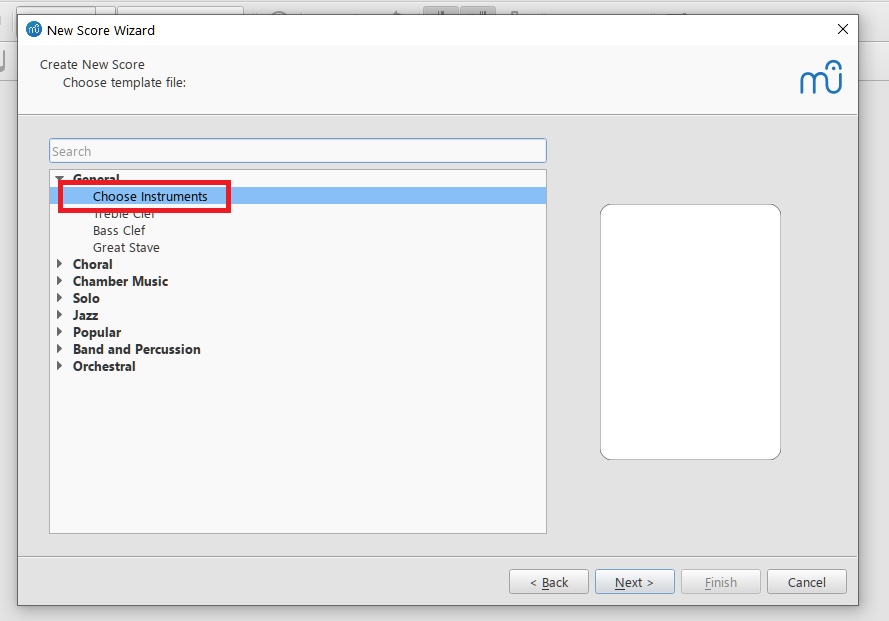
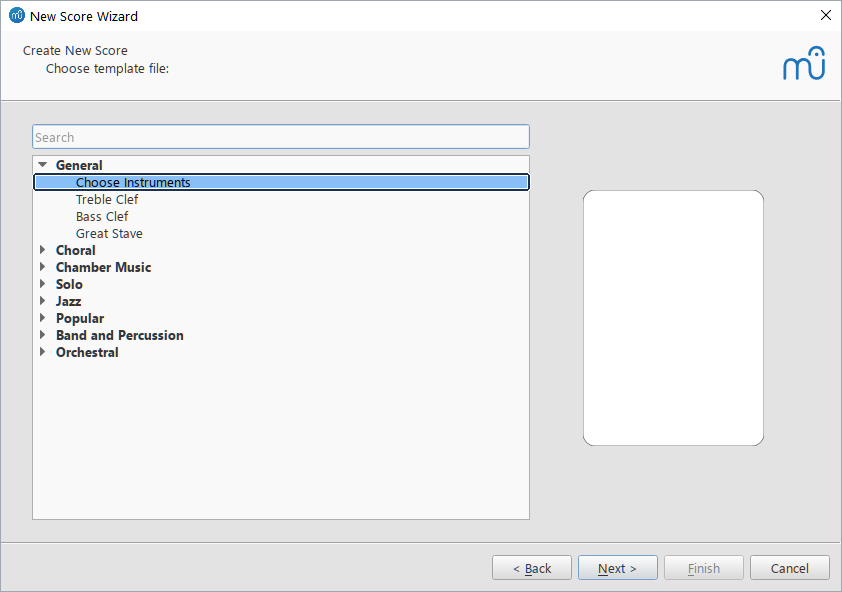
docs: Retake MuseScore screenshots and proofread the topics
- Replace all 14 MuseScore images: clean crops from new 3.6.2 captures,
  consistent highlight outlines and borders, no baked-in red boxes or
  tooltips; notation images rendered from the .mscz files
- Fill the first four measures of Love_Song.mscz (piano, the Bass Line
  part, drums) and use it as the introduction's sample score
- Proofread: "cursor" instead of the ambiguous "bar", search-box step
  for instruments outside the Common list, clearer introduction headings
  and a Get MuseScore section, sentence-case topic names
- Category READMEs: show Audience and Purpose as a list; consecutive
  lines merged into one paragraph

Changed region(s): [[0.0, 0.0, 1.0, 1.0], [0.6485, 0.3041, 0.9264, 0.7601]]

diff --git a/src/user-assistance/musescore/introduction.html b/src/user-assistance/musescore/introduction.html
@@ -34,8 +34,8 @@ are different, so some steps in these topics do not match MuseScore
 write for solo instruments or for ensembles of any style, from classical
 to rock, with the symbols a score needs: clefs, key and time signatures,
 accidentals, dynamics, articulations, and phrasing marks. Scores can be
-laid out for common contemporary page sizes.</p>
-<h2 id="overview">Overview</h2>
+laid out for any common page size.</p>
+<h2 id="why-notation-software">Why notation software</h2>
 <p>Engraving music used to take skilled craftspeople and expensive
 printing. With notation software, musicians can write and print scores
 on their own computers.</p>
@@ -44,11 +44,21 @@ keyboard. MuseScore saves scores as <code>.mscz</code> files: compressed
 files that contain the score in MuseScore’s own XML format, similar to
 MusicXML. You can play a score back on the computer, export it as MIDI,
 MusicXML, PDF, or audio, and print it.</p>
-<p>Here is a short example of a finished score:</p>
+<p>Here are the first four measures of <em>Love Song</em>, the sample
+score used in these topics:</p>
 <figure>
-<img src="pictures/score-sample.png" alt="A sample score" />
-<figcaption aria-hidden="true">A sample score</figcaption>
+<img src="pictures/score-sample.png"
+alt="First four measures of the Love Song sample score for piano, electric bass, and drums" />
+<figcaption aria-hidden="true">First four measures of the Love Song
+sample score for piano, electric bass, and drums</figcaption>
 </figure>
+<h2 id="get-musescore">Get MuseScore</h2>
+<p>Installers for Windows, macOS, and Linux are available from the
+official MuseScore site, <a
+href="https://musescore.org">musescore.org</a>. These topics and their
+screenshots use MuseScore 3.6.2, which is listed with the older releases
+on the same site.</p>
+<h2 id="topics">Topics</h2>
 <p>The following topics show how to create a score and enter a part:</p>
 <ol type="1">
 <li><a href="creating-a-score-file.html">Creating a score file</a></li>
@@ -56,11 +66,5 @@ MusicXML, PDF, or audio, and print it.</p>
 <li><a href="frequently-used-features.html">Frequently used
 features</a></li>
 </ol>
-<hr />
-<p>Installers for Windows, macOS, and Linux are available from the
-official MuseScore site, <a
-href="https://musescore.org">musescore.org</a>. These topics and their
-screenshots use MuseScore 3.6.2, which is listed with the older releases
-on the same site.</p>
 </body>
 </html>

diff --git a/src/user-assistance/musescore/creating-a-music-part.html b/src/user-assistance/musescore/creating-a-music-part.html
@@ -37,9 +37,10 @@ staff. You can download both sample scores:</p>
 <ul>
 <li><a href="Bass_Line.mscz">Bass_Line.mscz</a>: the single-staff score
 used in this topic, with the first measures already entered</li>
-<li><a href="Love_Song.mscz">Love_Song.mscz</a>: the blank
-three-instrument score created in <a
-href="creating-a-score-file.html">Creating a score file</a></li>
+<li><a href="Love_Song.mscz">Love_Song.mscz</a>: the three-instrument
+score from <a href="creating-a-score-file.html">Creating a score
+file</a>, with the first four measures filled in for piano, electric
+bass, and drums</li>
 </ul>
 <p>The steps are the same for the Electric Bass staff in Love Song.</p>
 <blockquote>
@@ -58,13 +59,13 @@ button at the left end of the note input toolbar (the button with the
 <em>N</em> symbol).</p>
 <figure>
 <img src="pictures/note-entry-button.png"
-alt="Note input button and its list of input modes" />
-<figcaption aria-hidden="true">Note input button and its list of input
-modes</figcaption>
+alt="Note input button and the arrow that opens the input modes" />
+<figcaption aria-hidden="true">Note input button and the arrow that
+opens the input modes</figcaption>
 </figure>
 <p>The arrow next to the button opens a list of input modes. The default
 mode, <strong>Step-Time</strong>, is the one used in this topic.</p>
-<p>A blue vertical bar appears at the start of the measure. It marks
+<p>A blue cursor appears on the first beat of the measure. It marks
 where the next note will go:</p>
 <figure>
 <img src="pictures/activate-note-entry.png"
@@ -79,7 +80,7 @@ default.</p></li>
 <li><p>Type the letter name of the pitch, <kbd>A</kbd> to
 <kbd>G</kbd>.</p>
 <p>MuseScore enters that note, following the key signature, in the
-octave closest to the previous note. The bar moves on to the next
+octave closest to the previous note. The cursor moves on to the next
 beat.</p>
 <p>To correct the pitch of the note you just entered, press
 <kbd>Up</kbd> or <kbd>Down</kbd> to move it by a semitone, or

diff --git a/src/user-assistance/musescore/creating-a-score-file.html b/src/user-assistance/musescore/creating-a-score-file.html
@@ -29,9 +29,9 @@
 <p><em>Applies to MuseScore 3.6.2. The menus in MuseScore 4 are
 different.</em></p>
 <p>In this topic, you create a blank score for a small band (piano,
-electric bass, and drums) with the New Score wizard. The finished score
-is available as a sample: <a
-href="Love_Song.mscz">Love_Song.mscz</a>.</p>
+electric bass, and drums) with the New Score wizard. A copy of the
+score, with the first four measures filled in, is available as a sample:
+<a href="Love_Song.mscz">Love_Song.mscz</a>.</p>
 <p>Before you start, download and install MuseScore 3.6.2 (see <a
 href="introduction.html">MuseScore Music Notation App</a>).</p>
 <ol type="1">
@@ -63,8 +63,10 @@ alt="Piano selected in the Keyboards group" />
 group</figcaption>
 </figure>
 <p>Piano appears in the right pane.</p></li>
-<li><p>Add <strong>Electric Bass</strong> and <strong>Drumset</strong>
-the same way.</p>
+<li><p>Add <strong>Electric Bass</strong> and <strong>Drumset</strong>.
+They aren’t in the <strong>Common</strong> list, so type each name in
+the search box above the list (for example, <em>Drumset</em>), select
+it, and click <strong>Add to score</strong>.</p>
 <p>The right pane now lists all three instruments:</p>
 <figure>
 <img src="pictures/selected-instruments.png"

diff --git a/src/user-assistance/musescore/creating-a-music-part.md b/src/user-assistance/musescore/creating-a-music-part.md
@@ -9,7 +9,7 @@ In this topic, you enter an electric bass part with the mouse and computer keybo
 To keep the screenshots simple, this topic uses a separate single-staff score called "Bass Line". It contains only an Electric Bass staff. You can download both sample scores:
 
 - [Bass_Line.mscz](Bass_Line.mscz): the single-staff score used in this topic, with the first measures already entered
-- [Love_Song.mscz](Love_Song.mscz): the blank three-instrument score created in [Creating a score file](creating-a-score-file.md)
+- [Love_Song.mscz](Love_Song.mscz): the three-instrument score from [Creating a score file](creating-a-score-file.md), with the first four measures filled in for piano, electric bass, and drums
 
 The steps are the same for the Electric Bass staff in Love Song.
 
@@ -24,18 +24,18 @@ The steps are the same for the Electric Bass staff in Love Song.
 
 3. Press <kbd>N</kbd>, or click the **Note input** button at the left end of the note input toolbar (the button with the *N* symbol).
 
-   ![Note input button and its list of input modes](pictures/note-entry-button.png)
+   ![Note input button and the arrow that opens the input modes](pictures/note-entry-button.png)
 
    The arrow next to the button opens a list of input modes. The default mode, **Step-Time**, is the one used in this topic.
 
-   A blue vertical bar appears at the start of the measure. It marks where the next note will go:
+   A blue cursor appears on the first beat of the measure. It marks where the next note will go:
 
    ![Note input cursor on the first beat](pictures/activate-note-entry.png)
 
 4. Choose a duration by clicking it on the note input toolbar, or by pressing a number key: for example, <kbd>4</kbd> for an eighth note or <kbd>5</kbd> for a quarter note. The quarter note is selected by default.
 5. Type the letter name of the pitch, <kbd>A</kbd> to <kbd>G</kbd>.
 
-   MuseScore enters that note, following the key signature, in the octave closest to the previous note. The bar moves on to the next beat.
+   MuseScore enters that note, following the key signature, in the octave closest to the previous note. The cursor moves on to the next beat.
 
    To correct the pitch of the note you just entered, press <kbd>Up</kbd> or <kbd>Down</kbd> to move it by a semitone, or <kbd>Ctrl</kbd>+<kbd>Up</kbd> or <kbd>Ctrl</kbd>+<kbd>Down</kbd> to move it by an octave.
 

diff --git a/src/user-assistance/README.md b/src/user-assistance/README.md
@@ -1,18 +1,18 @@
 # User Assistance (Portfolio Samples)
 
-**Audience:** End users performing GUI-based tasks
-**Purpose:** Short, visual task guides that help users reach a specific goal.
+- **Audience:** End users performing GUI-based tasks
+- **Purpose:** Short, visual task guides that help users reach a specific goal.
 
 The samples document MuseScore 3.6.2, a real open-source music notation program, and all screenshots were taken in that version. MuseScore 4 has different menus and toolbars, so some steps do not apply to it.
 
 ## What's inside
 
 - **[Introduction](musescore/introduction.md)**: What MuseScore is, how it stores scores, and where to download it
-- **[Creating a Score File](musescore/creating-a-score-file.md)**: Using the New Score Wizard to create a blank score, with a title, three instruments (piano, electric bass, drums), a key signature, and the default time signature and tempo
-- **[Creating a Music Part](musescore/creating-a-music-part.md)**: Entering an electric bass line with the keyboard, mouse, or onscreen piano; ties and slurs; and playing the part back
-- **[Frequently Used Features](musescore/frequently-used-features.md)**: Menu locations, palettes, and keyboard shortcuts for common tasks
+- **[Creating a score file](musescore/creating-a-score-file.md)**: Using the New Score Wizard to create a blank score, with a title, three instruments (piano, electric bass, drums), a key signature, and the default time signature and tempo
+- **[Creating a music part](musescore/creating-a-music-part.md)**: Entering an electric bass line with the keyboard, mouse, or onscreen piano; ties and slurs; and playing the part back
+- **[Frequently used features](musescore/frequently-used-features.md)**: Menu locations, palettes, and keyboard shortcuts for common tasks
 
-Sample scores (open in MuseScore 3.6 or later): [Love_Song.mscz](musescore/Love_Song.mscz) (the blank three-instrument score) and [Bass_Line.mscz](musescore/Bass_Line.mscz) (the single-staff bass part used in the note-entry topic).
+Sample scores (open in MuseScore 3.6 or later): [Love_Song.mscz](musescore/Love_Song.mscz) (the three-instrument score, with the first four measures filled in) and [Bass_Line.mscz](musescore/Bass_Line.mscz) (the single-staff bass part used in the note-entry topic).
 
 ## Highlights
 

diff --git a/src/user-assistance/musescore/introduction.md b/src/user-assistance/musescore/introduction.md
@@ -4,24 +4,26 @@
 
 ## What is MuseScore?
 
-MuseScore is an open-source program for writing music scores. You can write for solo instruments or for ensembles of any style, from classical to rock, with the symbols a score needs: clefs, key and time signatures, accidentals, dynamics, articulations, and phrasing marks. Scores can be laid out for common contemporary page sizes.
+MuseScore is an open-source program for writing music scores. You can write for solo instruments or for ensembles of any style, from classical to rock, with the symbols a score needs: clefs, key and time signatures, accidentals, dynamics, articulations, and phrasing marks. Scores can be laid out for any common page size.
 
-## Overview
+## Why notation software
 
 Engraving music used to take skilled craftspeople and expensive printing. With notation software, musicians can write and print scores on their own computers.
 
 You can enter notes with the mouse, the computer keyboard, or a MIDI keyboard. MuseScore saves scores as `.mscz` files: compressed files that contain the score in MuseScore's own XML format, similar to MusicXML. You can play a score back on the computer, export it as MIDI, MusicXML, PDF, or audio, and print it.
 
-Here is a short example of a finished score:
+Here are the first four measures of *Love Song*, the sample score used in these topics:
 
-![A sample score](pictures/score-sample.png)
+![First four measures of the Love Song sample score for piano, electric bass, and drums](pictures/score-sample.png)
+
+## Get MuseScore
+
+Installers for Windows, macOS, and Linux are available from the official MuseScore site, [musescore.org](https://musescore.org). These topics and their screenshots use MuseScore 3.6.2, which is listed with the older releases on the same site.
+
+## Topics
 
 The following topics show how to create a score and enter a part:
 
 1. [Creating a score file](creating-a-score-file.md)
 2. [Creating a music part](creating-a-music-part.md)
 3. [Frequently used features](frequently-used-features.md)
-
----
-
-Installers for Windows, macOS, and Linux are available from the official MuseScore site, [musescore.org](https://musescore.org). These topics and their screenshots use MuseScore 3.6.2, which is listed with the older releases on the same site.

diff --git a/src/user-assistance/musescore/creating-a-score-file.md b/src/user-assistance/musescore/creating-a-score-file.md
@@ -2,7 +2,7 @@
 
 *Applies to MuseScore 3.6.2. The menus in MuseScore 4 are different.*
 
-In this topic, you create a blank score for a small band (piano, electric bass, and drums) with the New Score wizard. The finished score is available as a sample: [Love_Song.mscz](Love_Song.mscz).
+In this topic, you create a blank score for a small band (piano, electric bass, and drums) with the New Score wizard. A copy of the score, with the first four measures filled in, is available as a sample: [Love_Song.mscz](Love_Song.mscz).
 
 Before you start, download and install MuseScore 3.6.2 (see [MuseScore Music Notation App](introduction.md)).
 
@@ -26,7 +26,7 @@ Before you start, download and install MuseScore 3.6.2 (see [MuseScore Music Not
 
    Piano appears in the right pane.
 
-6. Add **Electric Bass** and **Drumset** the same way.
+6. Add **Electric Bass** and **Drumset**. They aren't in the **Common** list, so type each name in the search box above the list (for example, *Drumset*), select it, and click **Add to score**.
 
    The right pane now lists all three instruments:
 

diff --git a/src/user-manuals/README.md b/src/user-manuals/README.md
@@ -1,7 +1,7 @@
 # Appliance and Industrial Manuals (Portfolio Samples)
 
-**Audience:** Consumers, appliance installers, industrial operators, and maintenance personnel
-**Purpose:** Demonstrate non-software technical writing capabilities for physical products, emphasizing safety, usability, and compliance requirements across different complexity levels.
+- **Audience:** Consumers, appliance installers, industrial operators, and maintenance personnel
+- **Purpose:** Demonstrate non-software technical writing capabilities for physical products, emphasizing safety, usability, and compliance requirements across different complexity levels.
 
 ## What's Inside
 

diff --git a/src/release-notes/README.md b/src/release-notes/README.md
@@ -1,7 +1,7 @@
 # Release Notes (Portfolio Sample)
 
-**Audience:** Product managers, engineering teams, end users, and stakeholders
-**Purpose:** Communicate software changes, compatibility impacts, and upgrade procedures in a clear, organized format that serves both technical and non-technical audiences.
+- **Audience:** Product managers, engineering teams, end users, and stakeholders
+- **Purpose:** Communicate software changes, compatibility impacts, and upgrade procedures in a clear, organized format that serves both technical and non-technical audiences.
 
 ## What's Inside
 

diff --git a/src/system-configuration-guide/README.md b/src/system-configuration-guide/README.md
@@ -1,7 +1,7 @@
 # System Configuration Guide (Portfolio Sample)
 
-**Audience:** System administrators, network engineers, and IT professionals
-**Purpose:** Provide comprehensive system setup guidance covering server sizing, networking, certificates, and licensing requirements.
+- **Audience:** System administrators, network engineers, and IT professionals
+- **Purpose:** Provide comprehensive system setup guidance covering server sizing, networking, certificates, and licensing requirements.
 
 ## What's Inside
 

diff --git a/src/reference-charts/README.md b/src/reference-charts/README.md
@@ -1,7 +1,7 @@
 # Reference Charts (Portfolio Samples)
 
-**Audience:** Developers, system operators, and technical users
-**Purpose:** Provide quick-reference materials for configuration parameters, language syntax, and technical specifications in easily scannable formats.
+- **Audience:** Developers, system operators, and technical users
+- **Purpose:** Provide quick-reference materials for configuration parameters, language syntax, and technical specifications in easily scannable formats.
 
 ## What's Inside
 

diff --git a/src/installation-guide/README.md b/src/installation-guide/README.md
@@ -1,7 +1,7 @@
 # Installation Guide (Portfolio Sample)
 
-**Audience:** System administrators, DevOps engineers, and IT professionals
-**Purpose:** Provide comprehensive, reproducible installation procedures with thorough verification steps and troubleshooting guidance.
+- **Audience:** System administrators, DevOps engineers, and IT professionals
+- **Purpose:** Provide comprehensive, reproducible installation procedures with thorough verification steps and troubleshooting guidance.
 
 ## What's Inside
 
